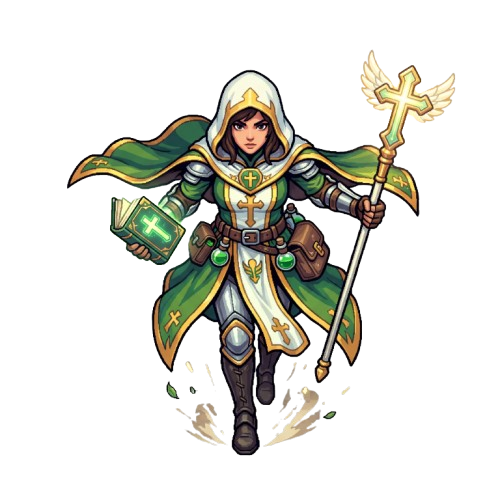
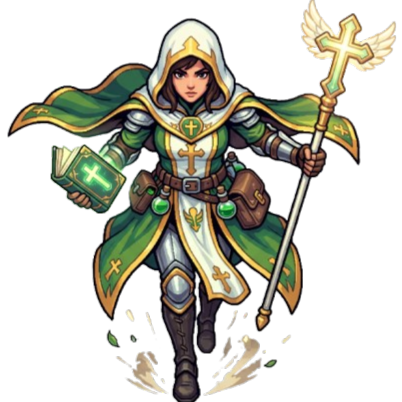
ajout du boss et de ses fonctionnalités

diff --git a/src/Jeu.cpp b/src/Jeu.cpp
@@ -44,31 +44,82 @@ void Jeu::avancerTour() {
 
 void Jeu::genererVagueActuelle() {
     ennemis.clear();
+    int numero = vague.getNumero();
+    int nombre = vague.getNombreEnnemis();
 
-    // VAGUE BOSS
-    if (vague.getNumero() == 6) {
-        genererEnnemis(1, BOSS, 2000, 2, 120, 120, 400, 20);
+    //VAGUE BOSS
+    if (numero == 6) {
+        genererEnnemis(1, BOSS, 200000, 2, 400, 400, 1000, 20);
         return;
     }
 
-    int nombre = vague.getNombreEnnemis();
     for (int i = 0; i < nombre; i++) {
         int tirage = rand() % 100;
+        TypeEnnemi type;
 
-        if (tirage < 20) {
-            genererEnnemis(1, ZOMBIE, 120, 5, 30, 30, 100, 10);
+        //CHOIX SELON LA VAGUE
+        if (numero == 1) {
+            type = ZOMBIE;
         }
-        else if (tirage < 40) {
-            genererEnnemis(1, ARCHER, 80, 4, 25, 25, 400, 5);
+        else if (numero == 2) {
+            if (tirage < 50) type = ZOMBIE;
+            else type = ARCHER;
         }
-        else if (tirage < 60) {
-            genererEnnemis(1, HEALER, 150, 3, 25, 25, 300, 5);
+        else if (numero == 3) {
+            if (tirage < 40) type = ZOMBIE;
+            else if (tirage < 80) type = ARCHER;
+            else type = HEALER;
         }
-        else if (tirage < 80) {
-            genererEnnemis(1, SORCIER, 120, 3, 50, 50, 300, 8);
+        else if (numero == 4) {
+            if (tirage < 35) type = ZOMBIE;
+            else if (tirage < 70) type = ARCHER;
+            else if (tirage < 85) type = HEALER;
+            else type = SORCIER;
         }
-        else {
-            genererEnnemis(1, SLIME, 100, 4, 40, 40, 100, 8);
+        else { // vague 5
+            if (tirage < 35) type = ZOMBIE;
+            else if (tirage < 70) type = ARCHER;
+            else if (tirage < 80) type = HEALER;
+            else if (tirage < 90) type = SORCIER;
+            else type = SLIME;
+        }
+
+        //STATS DE BASE
+        int pv = 100;
+        float vitesse = 4;
+        int largeur = 75;
+        int hauteur = 75;
+        float distance = 1000;
+        int degats = 10;
+
+        if (type == ARCHER) {
+            pv = 80; vitesse = 4; largeur = 65; hauteur = 65; distance = 1500; degats = 5;
+        }
+        else if (type == HEALER) {
+            pv = 150; vitesse = 3; largeur = 100; hauteur = 100; distance = 1000; degats = 5;
+        }
+        else if (type == SORCIER) {
+            pv = 120; vitesse = 3; largeur = 120; hauteur = 120; distance = 1500; degats = 8;
+        }
+        else if (type == SLIME) {
+            pv = 100; vitesse = 4; largeur = 175; hauteur = 175; distance = 1000; degats = 8;
+        }
+
+        //MINI BOSS (1%)
+        bool miniBoss = (rand() % 100 < 1);
+        if (miniBoss) {
+            pv *= 5;
+            degats *= 2;
+            largeur *= 2;
+            hauteur *= 2;
+        }
+
+        //SPAWN
+        genererEnnemis(1, type, pv, vitesse, largeur, hauteur, distance, degats);
+
+        //SLIME DIVISIBLE
+        if (type == SLIME) {
+            ennemis.back().setPeutSeDiviser(true);
         }
     }
 }
@@ -82,8 +133,8 @@ void Jeu::genererEnnemis(int nombre, TypeEnnemi type, int pv, float vitesse, int
         float centreY = 0;
 
         while (!positionValide) {
-            centreX = posJoueur.x + (rand() % 2500 - 1250);
-            centreY = posJoueur.y + (rand() % 2500 - 1250);
+            centreX = posJoueur.x + (rand() % 4000 - 2000);
+            centreY = posJoueur.y + (rand() % 4000 - 2000);
 
             float dx = centreX - posJoueur.x;
             float dy = centreY - posJoueur.y;
@@ -175,14 +226,17 @@ void Jeu::faireTirerEnnemis(float maintenant) {
         float intervalle = ennemis[i].getArme().getIntervalleTirMs();
         if (maintenant - ennemis[i].getDernierTir() < intervalle) continue;
 
-        Projectile p = creerProjectileDepuisEnnemi(ennemis[i], posJoueur);
-        projectilesEnnemis.push_back(p);
-
+        vector<Projectile> ps = creerProjectilesDepuisEnnemi(ennemis[i], posJoueur);
+        for (unsigned int k = 0; k < ps.size(); k++) {
+            projectilesEnnemis.push_back(ps[k]);
+        }
         ennemis[i].setDernierTir(maintenant);
     }
 }
 
-Projectile Jeu::creerProjectileDepuisEnnemi(const Ennemi& ennemi, const Position& cible) const {
+vector<Projectile> Jeu::creerProjectilesDepuisEnnemi(const Ennemi& ennemi, const Position& cible) const {
+    vector<Projectile> projectiles;
+
     Position pos = ennemi.getPosition();
 
     float dx = cible.x - pos.x;
@@ -194,14 +248,32 @@ Projectile Jeu::creerProjectileDepuisEnnemi(const Ennemi& ennemi, const Position
     dx /= distance;
     dy /= distance;
 
+    float angle = atan2(-dy, dx) * 180 / 3.14159265;
+
     const Arme& arme = ennemi.getArme();
 
-    float vitesse = arme.getVitesseProjectile();
-    int degats = arme.getDegats();
-    float largeur = arme.getLargeurProjectile();
-    float hauteur = arme.getHauteurProjectile();
+    vector<float> angles;
 
-    return Projectile(pos.x, pos.y, dx * vitesse, dy * vitesse, degats, largeur, hauteur);
+    // NORMAL
+    if (ennemi.getType() == ARCHER || ennemi.getType() == SORCIER) {
+        angles.push_back(angle);
+    }
+    // BOSS = multitir
+    else if (ennemi.getType() == BOSS) {
+        angles.push_back(angle - 15);
+        angles.push_back(angle);
+        angles.push_back(angle + 15);
+    }
+
+    for (unsigned int i = 0; i < angles.size(); i++) {
+        float angleRad = angles[i] * 3.14159265 / 180;
+        float dirX = cos(angleRad);
+        float dirY = -sin(angleRad);
+
+        Projectile p(pos.x, pos.y, dirX * arme.getVitesseProjectile(), dirY * arme.getVitesseProjectile(), arme.getDegats(), arme.getLargeurProjectile(), arme.getHauteurProjectile());
+        projectiles.push_back(p);
+    }
+    return projectiles;
 }
 
 void Jeu::deplacerProjectilesAllies() {
@@ -411,7 +483,7 @@ void Jeu::gererMortsEnnemis() {
                     float decalageX = (rand() % 40) - 20;
                     float decalageY = (rand() % 40) - 20;
 
-                    Ennemi petitSlime(pos.x + decalageX, pos.y + decalageY, SLIME, 30, 6, 20, 20, 5);
+                    Ennemi petitSlime(pos.x + decalageX, pos.y + decalageY, SLIME, 30, 6, 65, 65, 5);
                     petitSlime.setPeutSeDiviser(false);
                     ennemisASpawn.push_back(petitSlime);
                 }
@@ -473,16 +545,16 @@ void Jeu::mettreAJourEtatAuraJoueur() {
     Position pos = joueur.getPosition();
 
     // stats selon le niveau
-    float rayon = 150;
+    float rayon = 300;
     int degats = 3;
     float intervalle = 50;
 
     if (niveauAuraJoueur == 2) {
-        rayon = 200;
+        rayon = 450;
         degats = 6;
     }
     else if (niveauAuraJoueur >= 3) {
-        rayon = 250;
+        rayon = 600;
         degats = 10;
         intervalle = 25;
     }

diff --git a/src/sdl/JeuSDL.cpp b/src/sdl/JeuSDL.cpp
@@ -133,7 +133,7 @@ JeuSDL::JeuSDL() : jeu(), fenetre(nullptr), rendu(nullptr), police(nullptr) {
     im_zombie.loadFromFile("data/zombie.png", rendu);
     im_archer.loadFromFile("data/archer.png", rendu);
     im_healer.loadFromFile("data/healer.png", rendu);
-    im_sorciere.loadFromFile("data/sorciere.png", rendu);
+    im_sorcier.loadFromFile("data/sorcier.png", rendu);
     im_slime.loadFromFile("data/slime.png", rendu);
     im_boss.loadFromFile("data/boss.png", rendu);
 
@@ -263,8 +263,8 @@ void JeuSDL::afficher() {
         else if (type == HEALER) {
             im_healer.draw(rendu, rect.x, rect.y, rect.w, rect.h);
         }
-        else if (type == SORCIERE) {
-            im_sorciere.draw(rendu, rect.x, rect.y, rect.w, rect.h);
+        else if (type == SORCIER) {
+            im_sorcier.draw(rendu, rect.x, rect.y, rect.w, rect.h);
         }
         else if (type == SLIME) {
             im_slime.draw(rendu, rect.x, rect.y, rect.w, rect.h);
@@ -430,6 +430,7 @@ void JeuSDL::boucle() {
     float dernierSoinHealer = 0;
     float dernierSpawnSorcier = 0;
     float dernierSpawnBoss = 0;
+    float dernierTirBoss = 0;
 
     while (!quitter) {
 
@@ -476,6 +477,7 @@ void JeuSDL::boucle() {
             float intervalleSoinHealer = 1000;
             float intervalleSpawnSorcier = 5000;
             float intervalleSpawnBoss = 10000;
+            float intervalleTirBoss = 400;
 
             //faire tirer le joueur
             if (tempsActuel - dernierTirJoueur >= intervalleTirJoueur) {
@@ -488,11 +490,29 @@ void JeuSDL::boucle() {
                 Position posJoueur = jeu.getJoueur().getPosition();
 
                 for (unsigned int i = 0; i < ennemis.size(); i++) {
-                    if (ennemis[i].getType() != ARCHER && ennemis[i].getType() != SORCIER && ennemis[i].getType() != BOSS) continue;
-                    Projectile p = jeu.creerProjectileDepuisEnnemi(ennemis[i], posJoueur);
-                    jeu.ajouterProjectileEnnemi(p);
+                    if (ennemis[i].getType() != ARCHER && ennemis[i].getType() != SORCIER) continue;
+                    
+                    vector<Projectile> ps = jeu.creerProjectilesDepuisEnnemi(ennemis[i], posJoueur);
+                    for (unsigned int k = 0; k < ps.size(); k++) {
+                        jeu.ajouterProjectileEnnemi(ps[k]);
+                    }
                 }
                 dernierTirEnnemis = tempsActuel;
+            }
+            //faire tirer le boss
+            if (tempsActuel - dernierTirBoss >= intervalleTirBoss) {
+                const vector<Ennemi>& ennemis = jeu.getEnnemis();
+                Position posJoueur = jeu.getJoueur().getPosition();
+
+                for (unsigned int i = 0; i < ennemis.size(); i++) {
+                    if (ennemis[i].getType() != BOSS) continue;
+                    vector<Projectile> ps = jeu.creerProjectilesDepuisEnnemi(ennemis[i], posJoueur);
+
+                    for (unsigned int k = 0; k < ps.size(); k++) {
+                        jeu.ajouterProjectileEnnemi(ps[k]);
+                    }
+                }
+                dernierTirBoss = tempsActuel;
             }
             //degats qu'infligent les ennemis au corps a corps
             if (tempsActuel - dernierDegatsEnnemis >= intervalleDegatsEnnemis) {
@@ -521,7 +541,7 @@ void JeuSDL::boucle() {
                     if (ennemis[i].getType() != SORCIER) continue;
                     
                     for (int k = 0; k < 5; k++) {
-                        jeu.genererEnnemis(1, ZOMBIE, 80, 4, 25, 25, 0, 5);
+                        jeu.genererEnnemis(1, ZOMBIE, 80, 4, 75, 75, 1000, 5);
                     }
                 }
                 dernierSpawnSorcier = tempsActuel;
@@ -534,7 +554,7 @@ void JeuSDL::boucle() {
                     if (ennemis[i].getType() != BOSS) continue;
 
                     for (int k = 0; k < 20; k++) {
-                        jeu.genererEnnemis(1, ZOMBIE, 80, 4, 25, 25, 0, 5);
+                        jeu.genererEnnemis(1, ZOMBIE, 80, 4, 75, 75, 1000, 5);
                     }
                 }
                 dernierSpawnBoss = tempsActuel;

diff --git a/src/Ennemi.cpp b/src/Ennemi.cpp
@@ -13,6 +13,7 @@ Ennemi::Ennemi(float x, float y, TypeEnnemi t, int pv, float vit, int larg, int 
     hauteur = haut;
     dernierTir = 0;
     degats = deg;
+
     if (t == HEALER) {
         rayonEffet = 150;
     }
@@ -22,6 +23,22 @@ Ennemi::Ennemi(float x, float y, TypeEnnemi t, int pv, float vit, int larg, int 
     else {
         rayonEffet = 0;
     }
+
+    //PROJECTILES ENNEMIS
+    if (t == ARCHER) {
+        arme.augmenterLargeurProjectile(-5);
+        arme.augmenterHauteurProjectile(-5);
+    }
+    /*else if (t == SORCIER) {
+        arme.augmenterLargeurProjectile(6);
+        arme.augmenterHauteurProjectile(6);
+    }*/ //on garde la taille de base mais je laisse au cas ou on veut changer
+    else if (t == BOSS) {
+        arme.augmenterLargeurProjectile(10);
+        arme.augmenterHauteurProjectile(10);
+    }
+    //SLIME
+    peutSeDiviser = false;
 }
 
 void Ennemi::seDeplacerVersJoueur(const Position& posJoueur, int largeurJoueur, int hauteurJoueur) {

diff --git a/src/Jeu.h b/src/Jeu.h
@@ -46,7 +46,7 @@ public:
     void deplacerEnnemisVersJoueur();
     void tirer(float angleDegres);
     void faireTirerEnnemis(float maintenant);
-    Projectile creerProjectileDepuisEnnemi(const Ennemi& ennemi, const Position& cible) const;
+    vector<Projectile> creerProjectilesDepuisEnnemi(const Ennemi& ennemi, const Position& cible) const;
 
     void deplacerProjectilesAllies();
     void deplacerProjectilesEnnemis();

diff --git a/src/Vague.cpp b/src/Vague.cpp
@@ -25,5 +25,13 @@ int Vague::getNiveau() const {
 }
 
 int Vague::getNombreEnnemis() const {
-    return 5;
+    // vague boss
+    if (numero == 6) {
+        return 1;
+    }
+    
+    int baseNiveau = (niveau - 1) * 50;
+    int progressionVague = numero * 10;
+
+    return baseNiveau + progressionVague;
 }

diff --git a/src/Joueur.cpp b/src/Joueur.cpp
@@ -7,8 +7,8 @@ using namespace std;
 Joueur::Joueur() {
     vie = 200;
     vitesse = 8;
-    largeur = 50;
-    hauteur = 50;
+    largeur = 125;
+    hauteur = 125;
     tirPerforant = false;
     dernierTir = 0;
 

diff --git a/src/Arme.cpp b/src/Arme.cpp
@@ -3,8 +3,8 @@
 Arme::Arme() {
     degats = 50;
     cadence = 2;
-    largeurProjectile = 5;
-    hauteurProjectile = 5;
+    largeurProjectile = 15;
+    hauteurProjectile = 15;
     vitesseProjectile = 8;
 }
 

diff --git a/src/sdl/JeuSDL.h b/src/sdl/JeuSDL.h
@@ -33,7 +33,7 @@ private:
     Image im_zombie;
     Image im_archer;
     Image im_healer;
-    Image im_sorciere;
+    Image im_sorcier;
     Image im_slime;
     Image im_boss;
 
